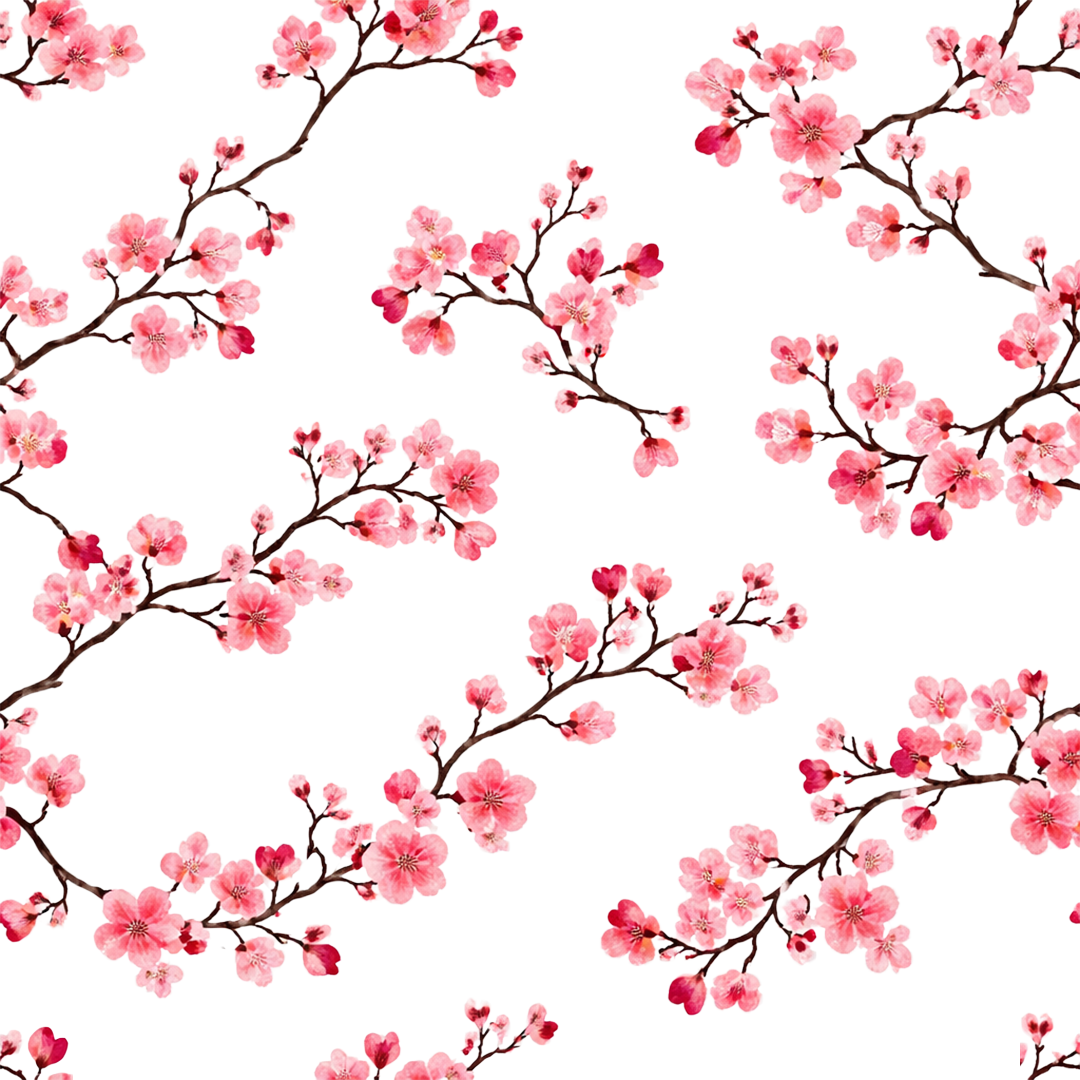
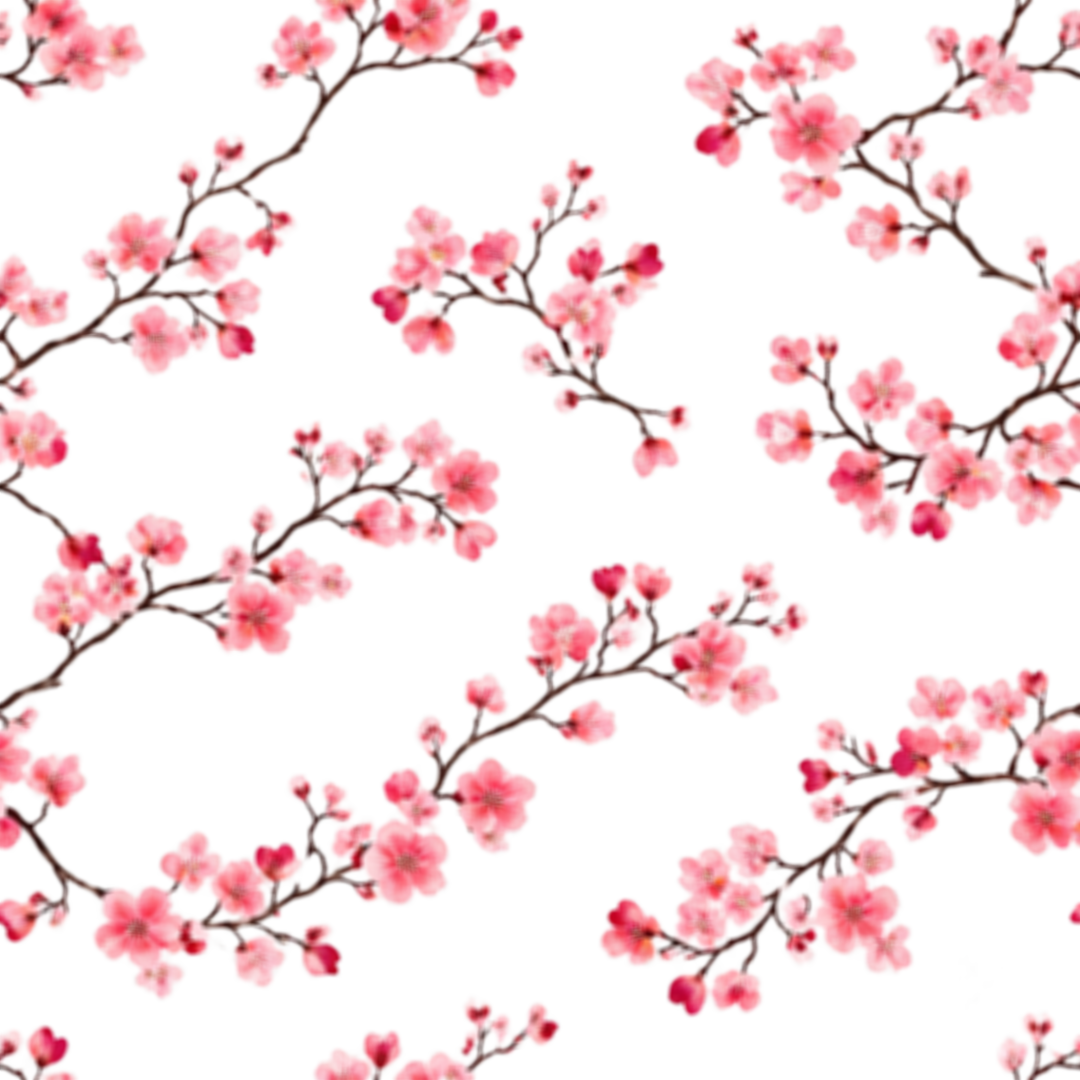
tesss

diff --git a/web/src/components/CherryBlossomCardBg.tsx b/web/src/components/CherryBlossomCardBg.tsx
@@ -1,5 +1,6 @@
-import { useEffect, useState } from "react";
+import { useCallback, useLayoutEffect, useRef, useState } from "react";
 import patternUrl from "../assets/Untitled-1.png?url";
+import { registerCherryPatternAlign } from "../lib/cherryPatternRegistry";
 
 type CherryBlossomCardBgProps = {
   density?: "card" | "panel";
@@ -8,40 +9,50 @@ type CherryBlossomCardBgProps = {
 /** Large repeat tile — motif reads big; same value everywhere so tiles line up */
 const TILE_WIDTH = "min(960px, 92vw)";
 
-const MQ_NARROW = "(max-width: 768px)";
-
 /**
- * Seamless PNG: `fixed` + same size/position = one continuous field across every card.
- * Vertical drift uses `var(--cherry-scroll-y)` from {@link CherryBlossomScrollBridge}.
+ * Seamless PNG on cards: `scroll` attachment + document-Y offset so the repeat
+ * lines up across cards (same idea as `fixed` + global parallax, without iOS jank).
  */
 export function CherryBlossomCardBg({ density = "card" }: CherryBlossomCardBgProps) {
-  const [narrow, setNarrow] = useState(false);
+  const rootRef = useRef<HTMLDivElement>(null);
+  const [docY, setDocY] = useState(0);
 
-  useEffect(() => {
-    const mq = window.matchMedia(MQ_NARROW);
-    const update = () => setNarrow(mq.matches);
-    update();
-    mq.addEventListener("change", update);
-    return () => mq.removeEventListener("change", update);
+  const measure = useCallback(() => {
+    const el = rootRef.current;
+    if (!el) return;
+    const next = el.getBoundingClientRect().top + window.scrollY;
+    setDocY((prev) => (Math.abs(prev - next) < 0.5 ? prev : next));
   }, []);
 
-  const filter = narrow
-    ? "saturate(1.2) blur(1.25px)"
-    : "saturate(1.2) blur(3px)";
+  useLayoutEffect(() => {
+    measure();
+    return registerCherryPatternAlign(measure);
+  }, [measure]);
+
+  useLayoutEffect(() => {
+    const el = rootRef.current;
+    if (!el) return;
+    const ro = new ResizeObserver(() => measure());
+    ro.observe(el);
+    return () => ro.disconnect();
+  }, [measure]);
 
   return (
     <div
+      ref={rootRef}
       data-density={density}
       className="pointer-events-none absolute inset-0 z-[1] overflow-hidden rounded-[inherit]"
       style={{
         backgroundImage: `url(${patternUrl})`,
         backgroundRepeat: "repeat",
         backgroundSize: `${TILE_WIDTH} auto`,
-        backgroundAttachment: "fixed",
-        backgroundPosition: "center var(--cherry-scroll-y, 0px)",
+        backgroundAttachment: "scroll",
+        backgroundPosition: `center ${-docY}px`,
         opacity: 0.5,
         mixBlendMode: "soft-light",
-        filter,
+        filter: "saturate(1.2)",
+        WebkitBackfaceVisibility: "hidden",
+        backfaceVisibility: "hidden",
       }}
       aria-hidden
     />

diff --git a/web/src/components/CherryBlossomScrollBridge.tsx b/web/src/components/CherryBlossomScrollBridge.tsx
@@ -1,31 +1,29 @@
 import { useEffect } from "react";
-
-/** Desktop: 1:1 with scroll. Narrow viewports (e.g. iPhone): slower so the pattern doesn’t race */
-function parallaxFactor(): number {
-  if (typeof window === "undefined") return 1;
-  return window.innerWidth <= 768 ? 0.32 : 1;
-}
+import { notifyCherryPatternAlign } from "../lib/cherryPatternRegistry";
 
 /**
- * One passive listener updates `--cherry-scroll-y` for all {@link CherryBlossomCardBg} layers.
+ * Single rAF-throttled scroll/resize loop so all {@link CherryBlossomCardBg}
+ * layers can recompute document-Y alignment (seamless repeat without `fixed`).
  */
 export function CherryBlossomScrollBridge() {
   useEffect(() => {
-    const root = document.documentElement;
-    const apply = () => {
-      const reduce = window.matchMedia("(prefers-reduced-motion: reduce)").matches;
-      const y = reduce ? 0 : -window.scrollY * parallaxFactor();
-      root.style.setProperty("--cherry-scroll-y", `${y}px`);
+    let rafId = 0;
+
+    const schedule = () => {
+      cancelAnimationFrame(rafId);
+      rafId = requestAnimationFrame(() => {
+        notifyCherryPatternAlign();
+      });
     };
-    apply();
-    window.addEventListener("scroll", apply, { passive: true });
-    window.addEventListener("resize", apply, { passive: true });
-    const mq = window.matchMedia("(prefers-reduced-motion: reduce)");
-    mq.addEventListener("change", apply);
+
+    schedule();
+    window.addEventListener("scroll", schedule, { passive: true });
+    window.addEventListener("resize", schedule, { passive: true });
+
     return () => {
-      window.removeEventListener("scroll", apply);
-      window.removeEventListener("resize", apply);
-      mq.removeEventListener("change", apply);
+      cancelAnimationFrame(rafId);
+      window.removeEventListener("scroll", schedule);
+      window.removeEventListener("resize", schedule);
     };
   }, []);
   return null;

diff --git a/web/src/lib/cherryPatternRegistry.ts b/web/src/lib/cherryPatternRegistry.ts
@@ -1,0 +1,15 @@
+/** Align tiled sakura across cards: one rAF batch notifies all layers to recompute document Y offset */
+
+const listeners = new Set<() => void>();
+
+export function registerCherryPatternAlign(fn: () => void): () => void {
+  listeners.add(fn);
+  queueMicrotask(fn);
+  return () => {
+    listeners.delete(fn);
+  };
+}
+
+export function notifyCherryPatternAlign(): void {
+  listeners.forEach((fn) => fn());
+}
